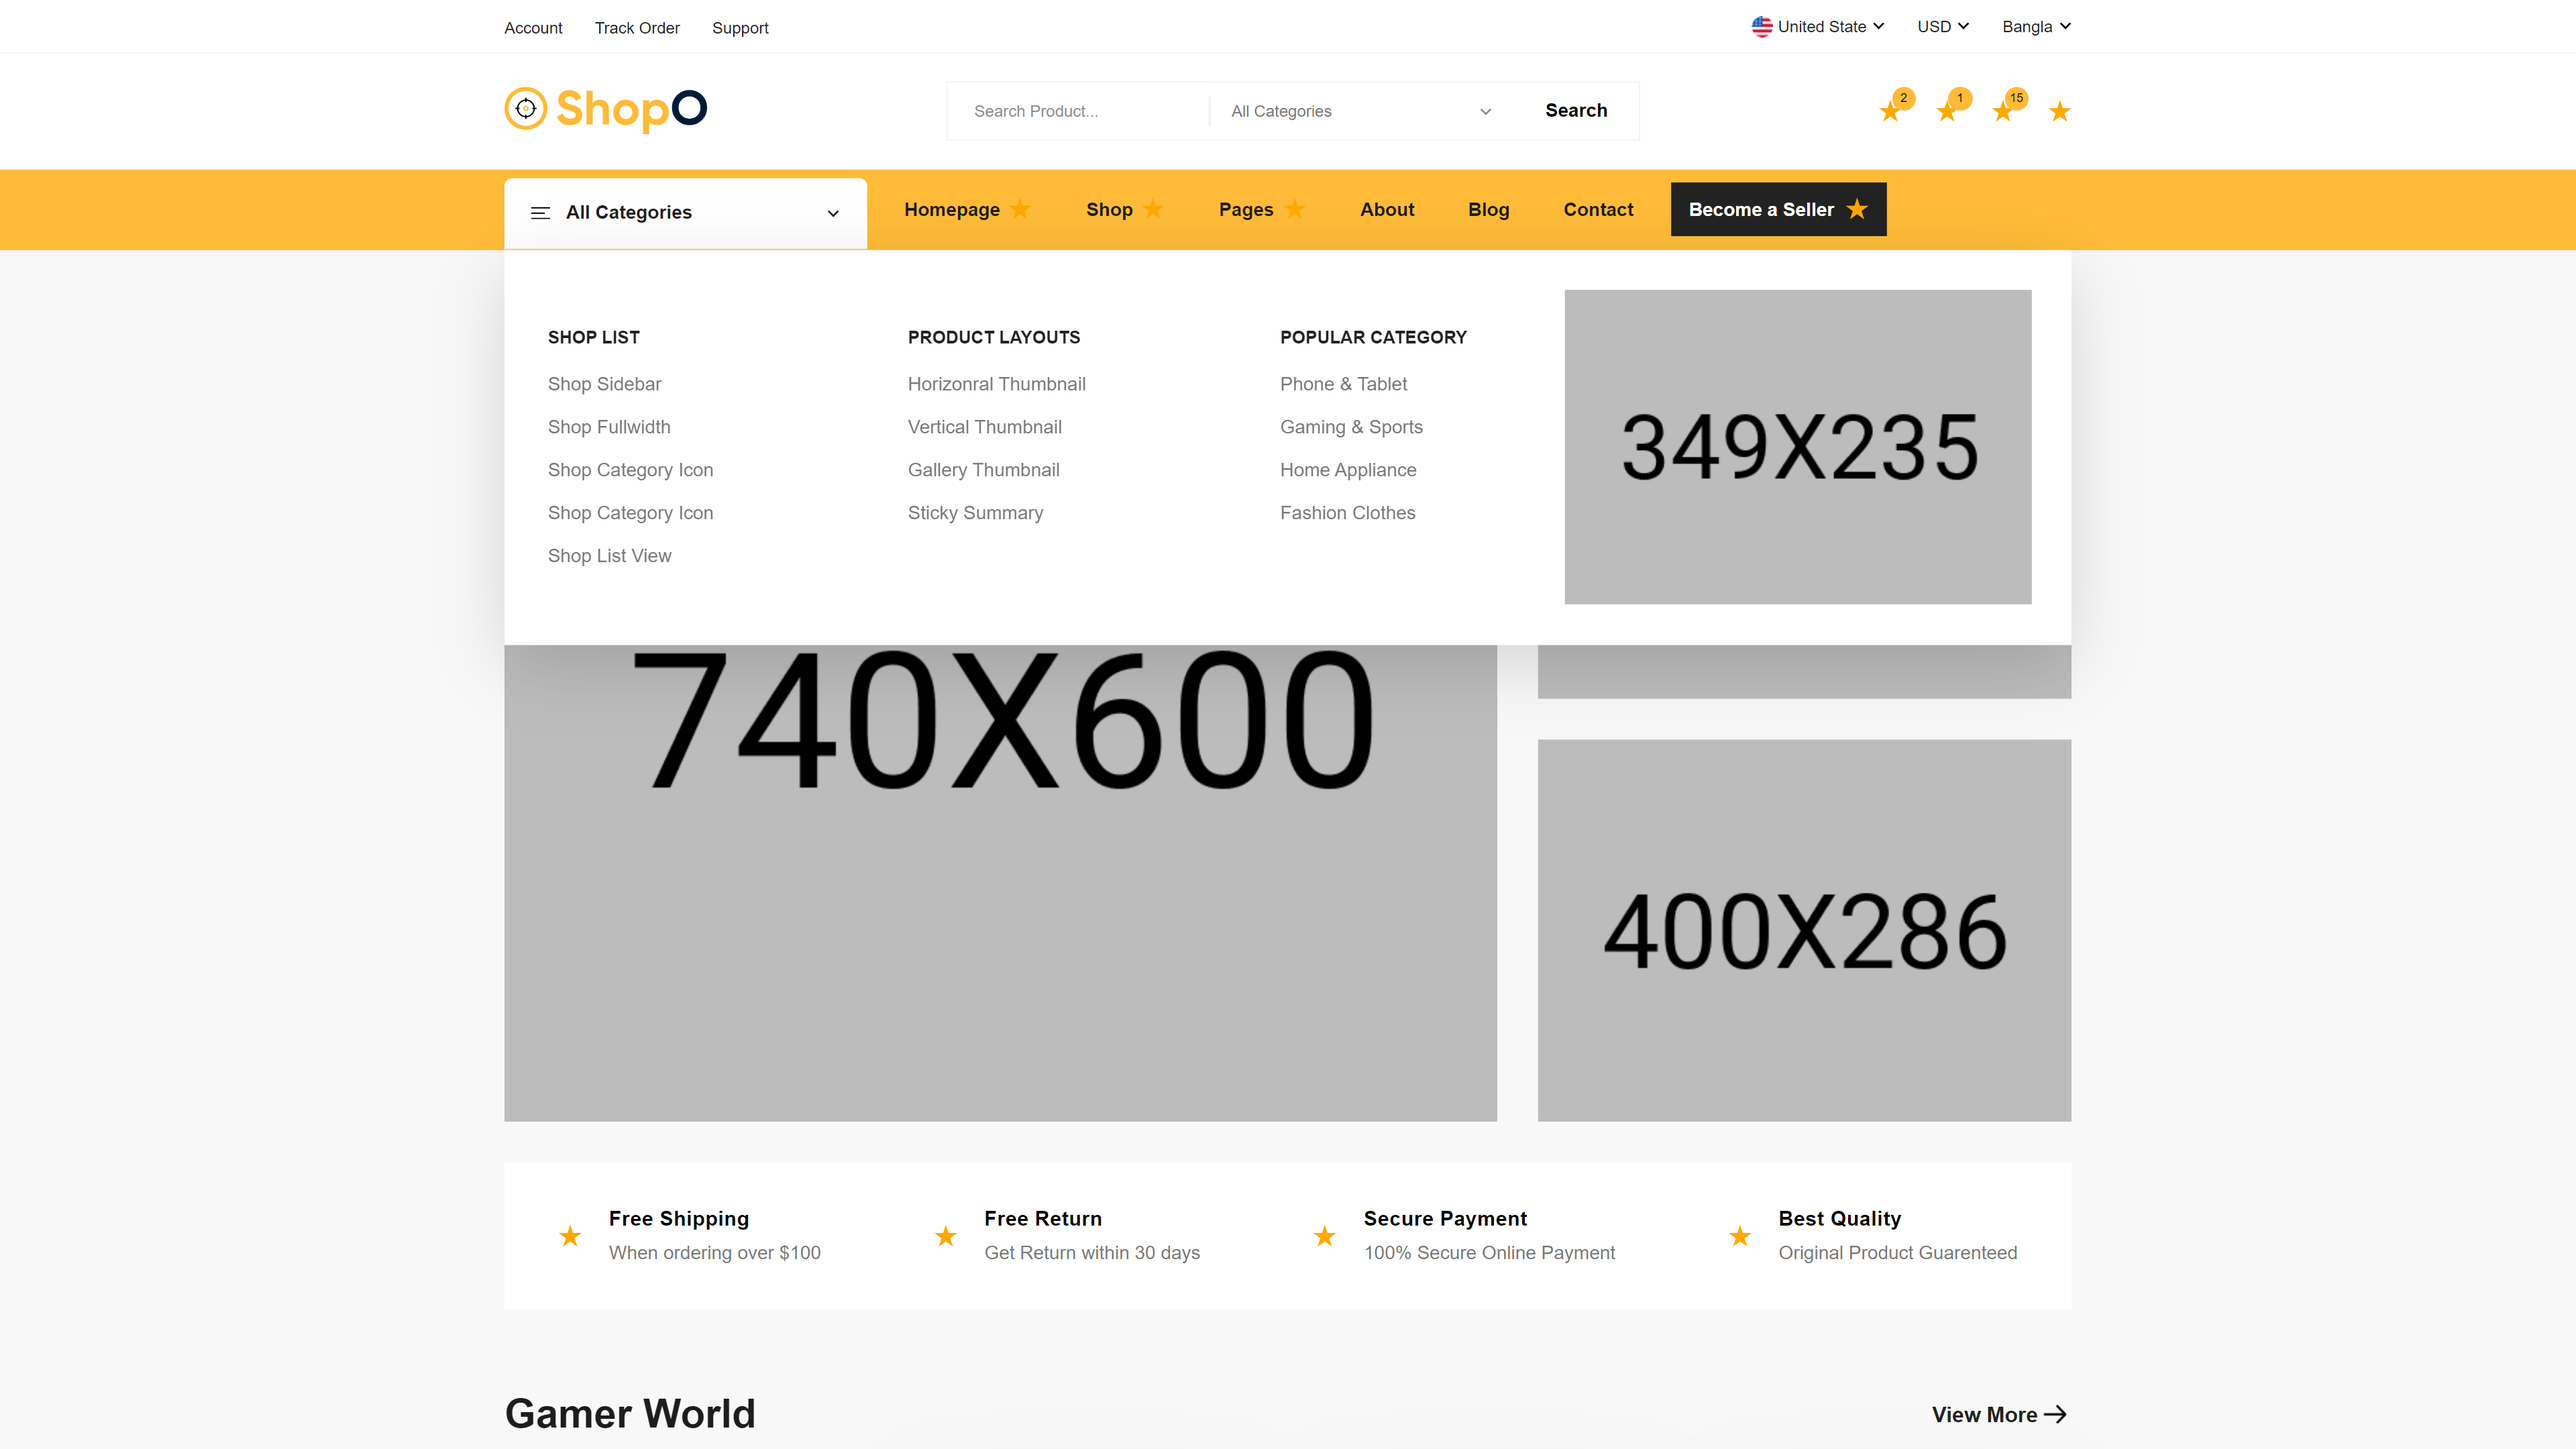
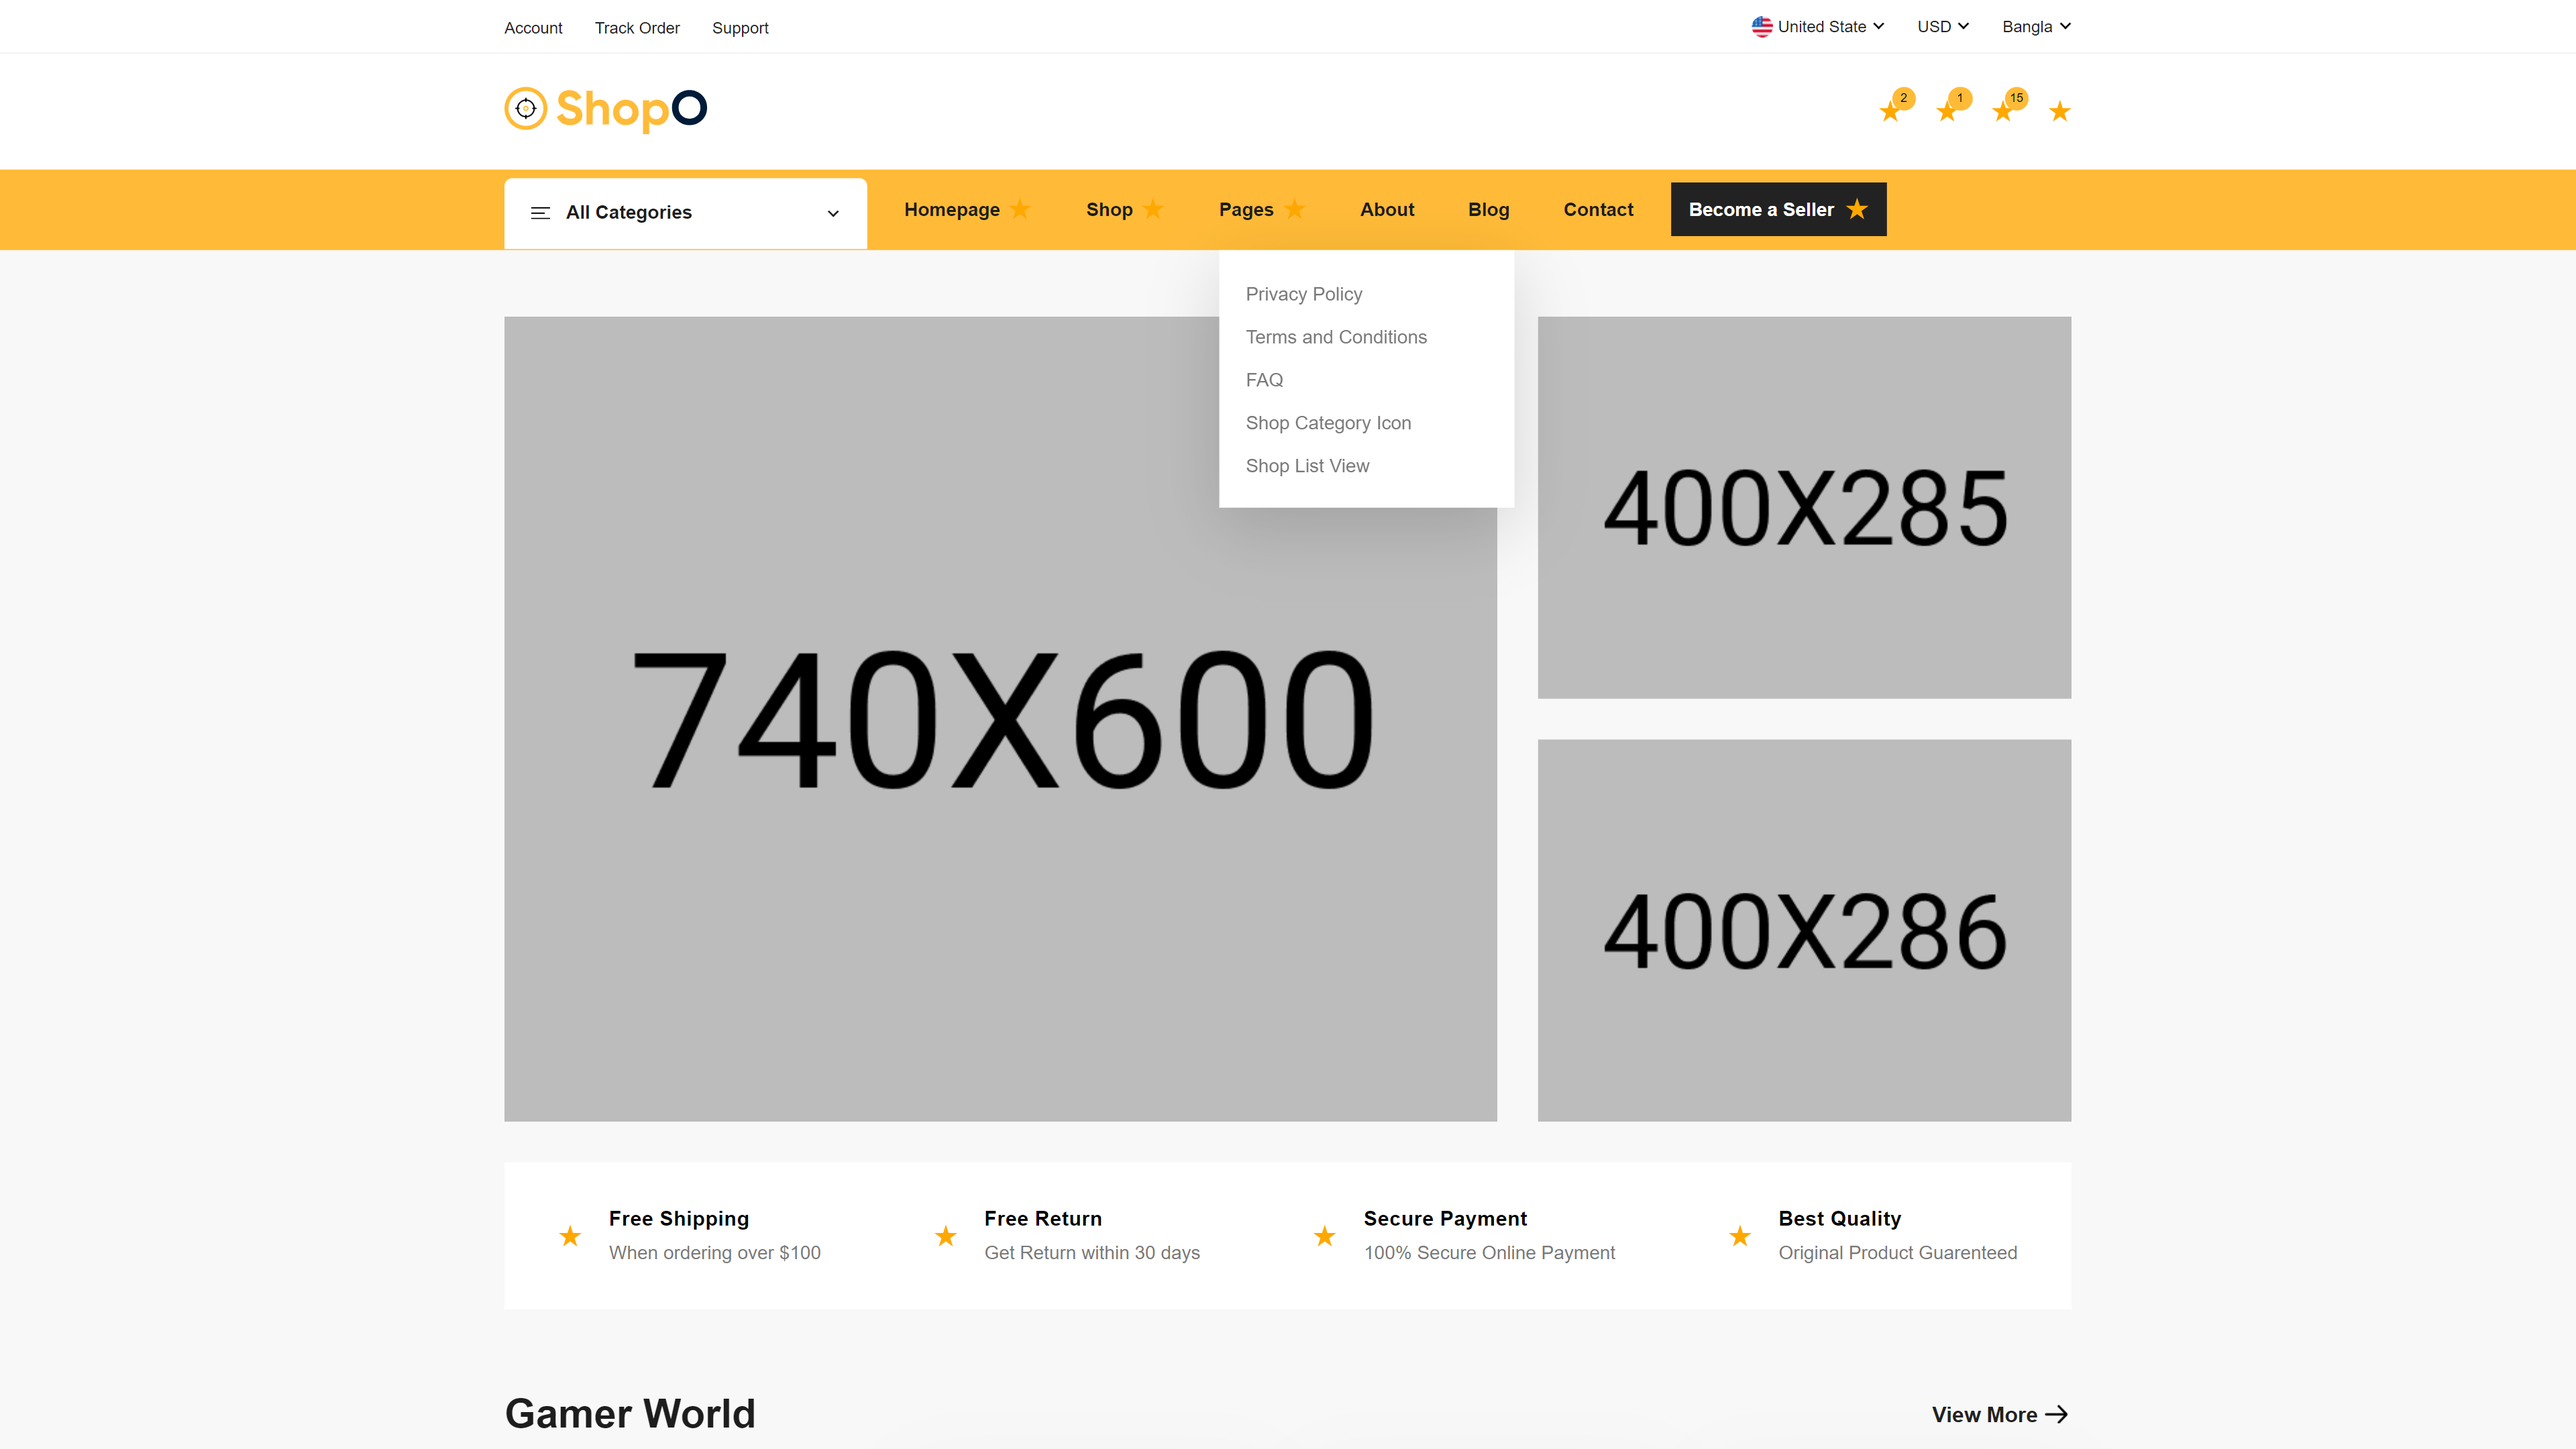
inside middlebar searchbox is deleted

Changed region(s): [[0.1875, 0.1861, 0.8125, 0.4653], [0.5938, 0.062, 0.625, 0.0931]]

diff --git a/src/components/Headers/Middlebar.jsx b/src/components/Headers/Middlebar.jsx
@@ -44,9 +44,6 @@ export default function Middlebar({ className, type }) {
                 </a>
               )}
             </div>
-            <div className="w-[517px] h-[44px]">
-              <SearchBox type={type} className="search-com" />
-            </div>
             <div className="flex space-x-6 items-center">
               <div className="compaire relative">
                 <a to="/products-compaire">
